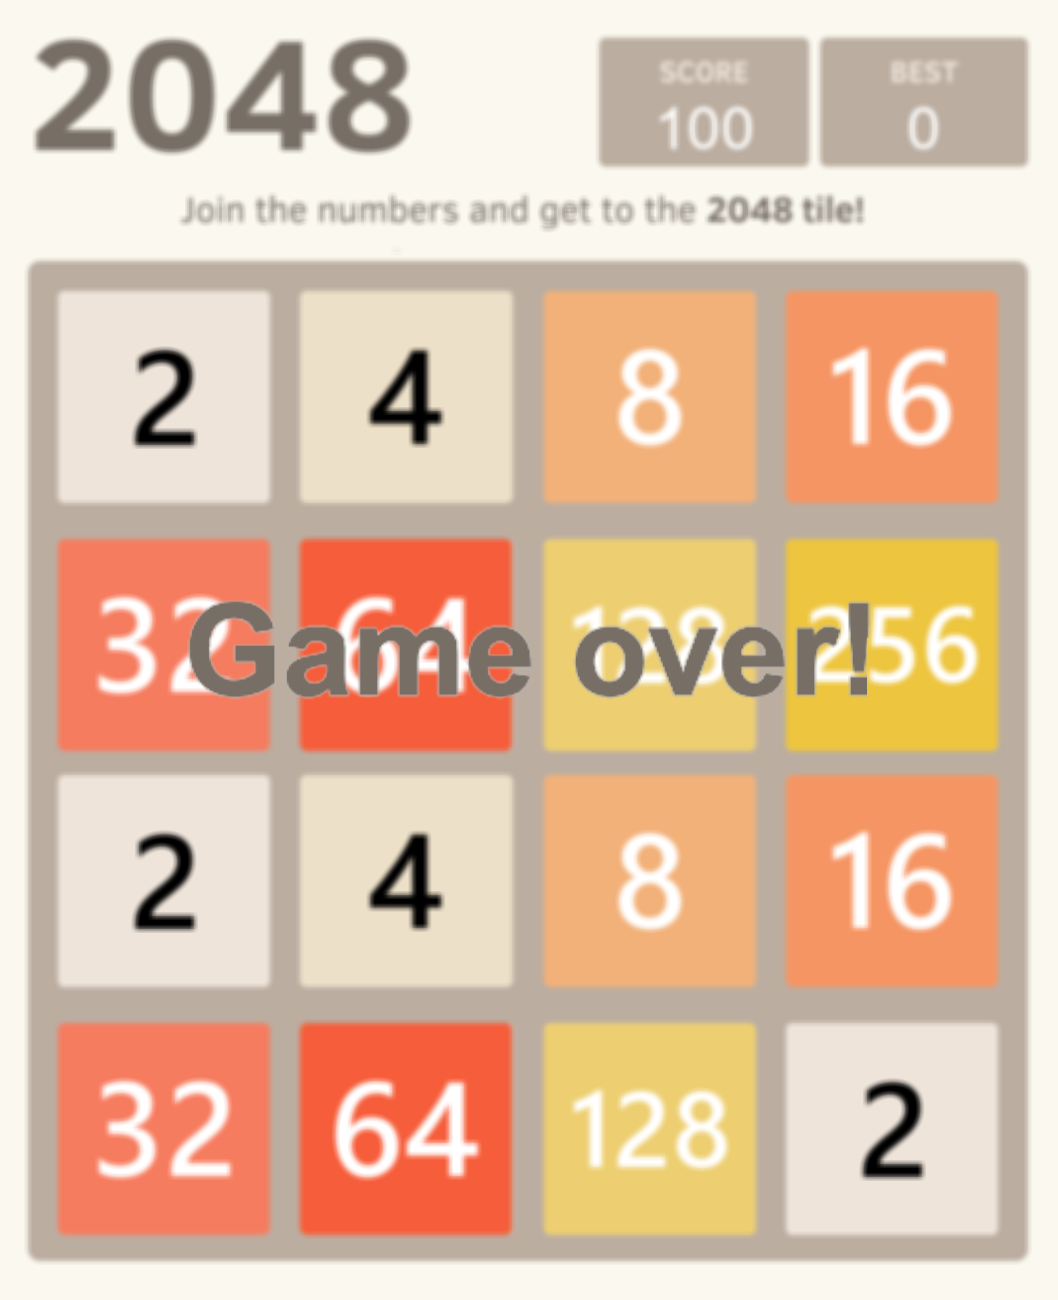
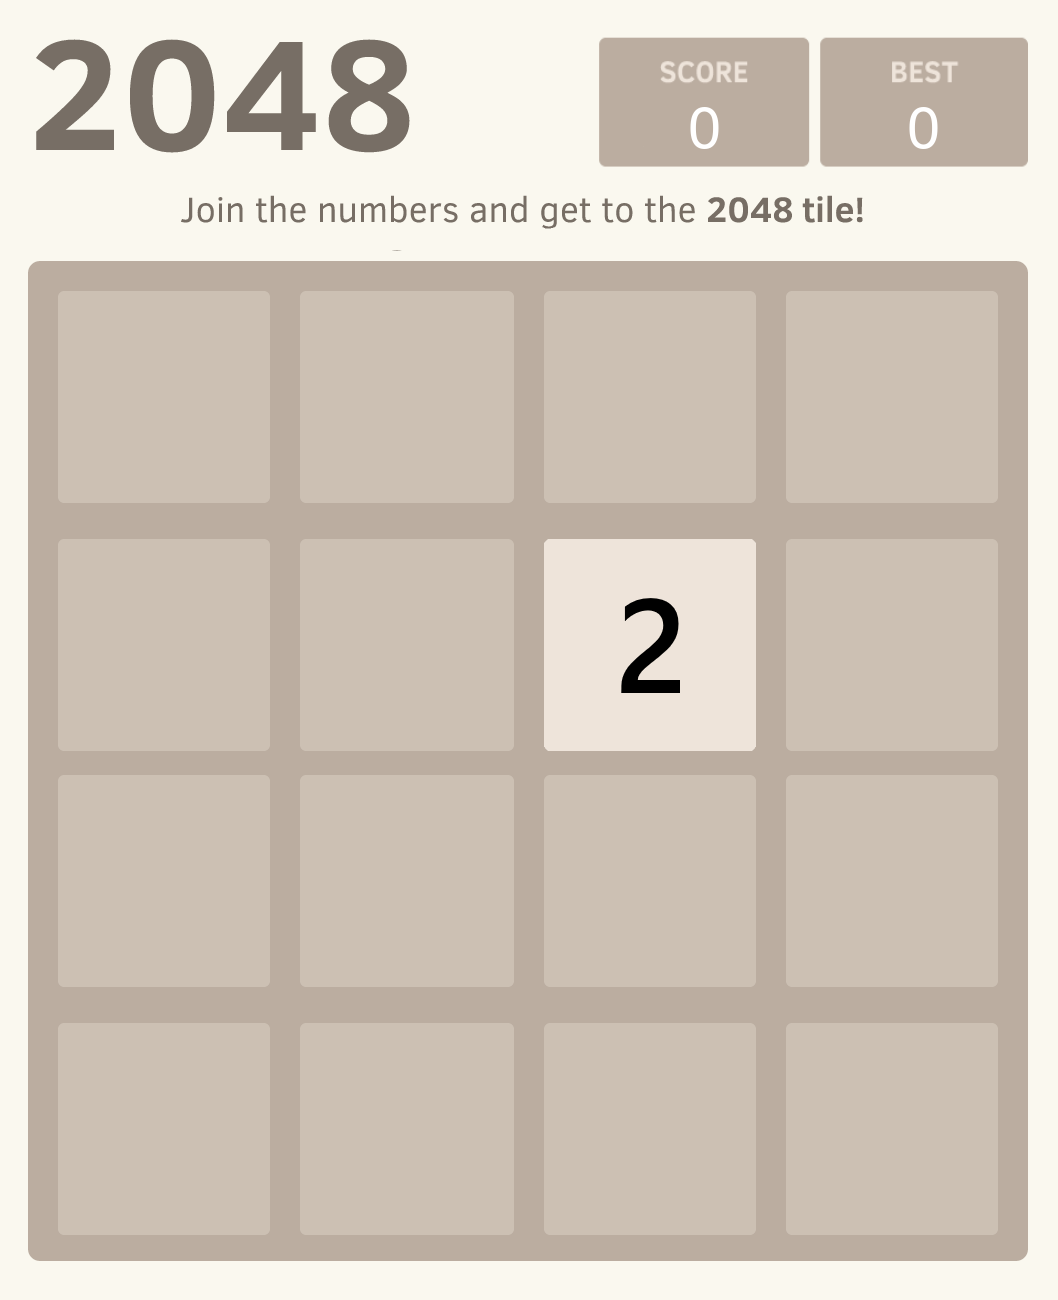
2048|newGame by Darkempire78

diff --git a/README.md b/README.md
@@ -6,7 +6,7 @@
 <img src="https://github.com/Darkempire78/readme-2048/blob/main/Data/gameboard.png" width="500"/>
 <!-- 2048GameBoard -->
 <a>
-<!-- 2048GameActions --><a  href="https://github.com/Darkempire78/readme-2048/issues/new?title=2048|newGame&body=Just+push+'Submit+new+issue'.+You+don't+need+to+do+anything+else."><img src="Assets/newGame.png"/></a><!-- 2048GameActions -->
+<!-- 2048GameActions --><a href="https://github.com/Darkempire78/readme-2048/issues/new?title=2048|slideUp&body=Just+push+'Submit+new+issue'.+You+don't+need+to+do+anything+else."> <img src="Assets/slideUp.png"/> </a> <a href="https://github.com/Darkempire78/readme-2048/issues/new?title=2048|slideDown&body=Just+push+'Submit+new+issue'.+You+don't+need+to+do+anything+else."> <img src="Assets/slideDown.png"/> </a> <a href="https://github.com/Darkempire78/readme-2048/issues/new?title=2048|slideLeft&body=Just+push+'Submit+new+issue'.+You+don't+need+to+do+anything+else."> <img src="Assets/slideLeft.png"/> </a> <a href="https://github.com/Darkempire78/readme-2048/issues/new?title=2048|slideRight&body=Just+push+'Submit+new+issue'.+You+don't+need+to+do+anything+else."> <img src="Assets/slideRight.png"/> </a><!-- 2048GameActions -->
 
 ## Contributing
 
